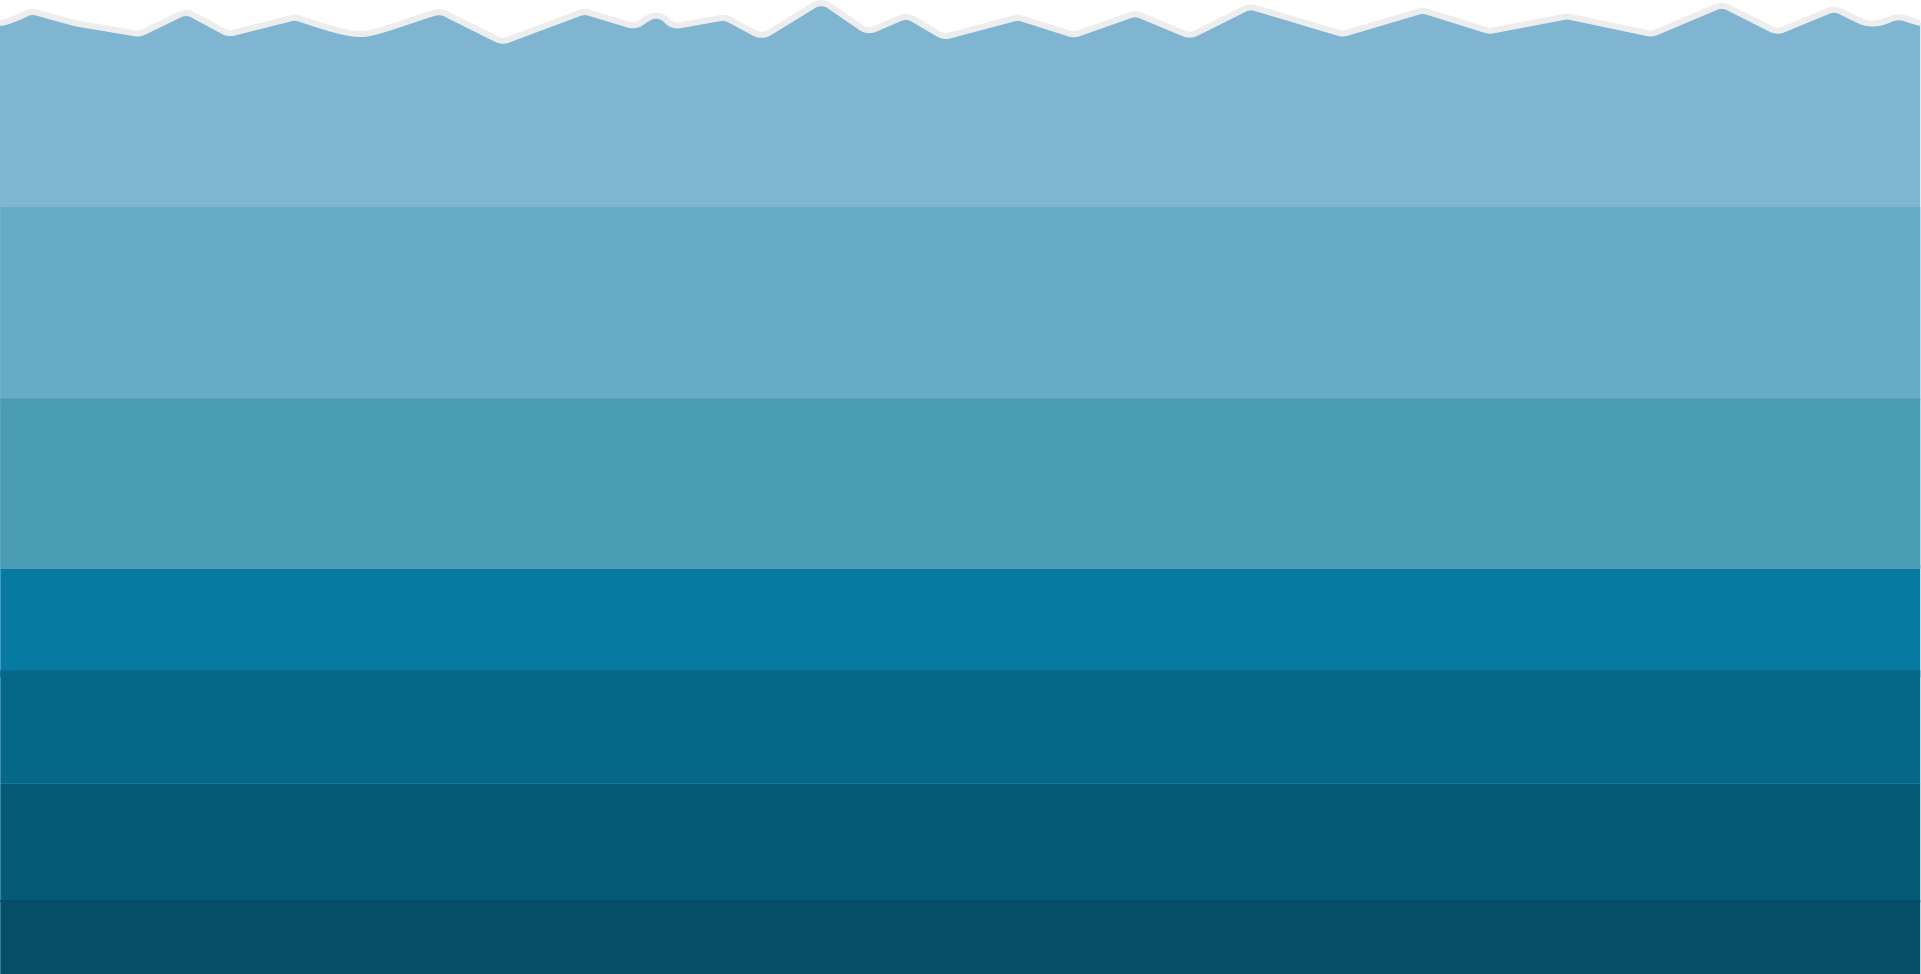
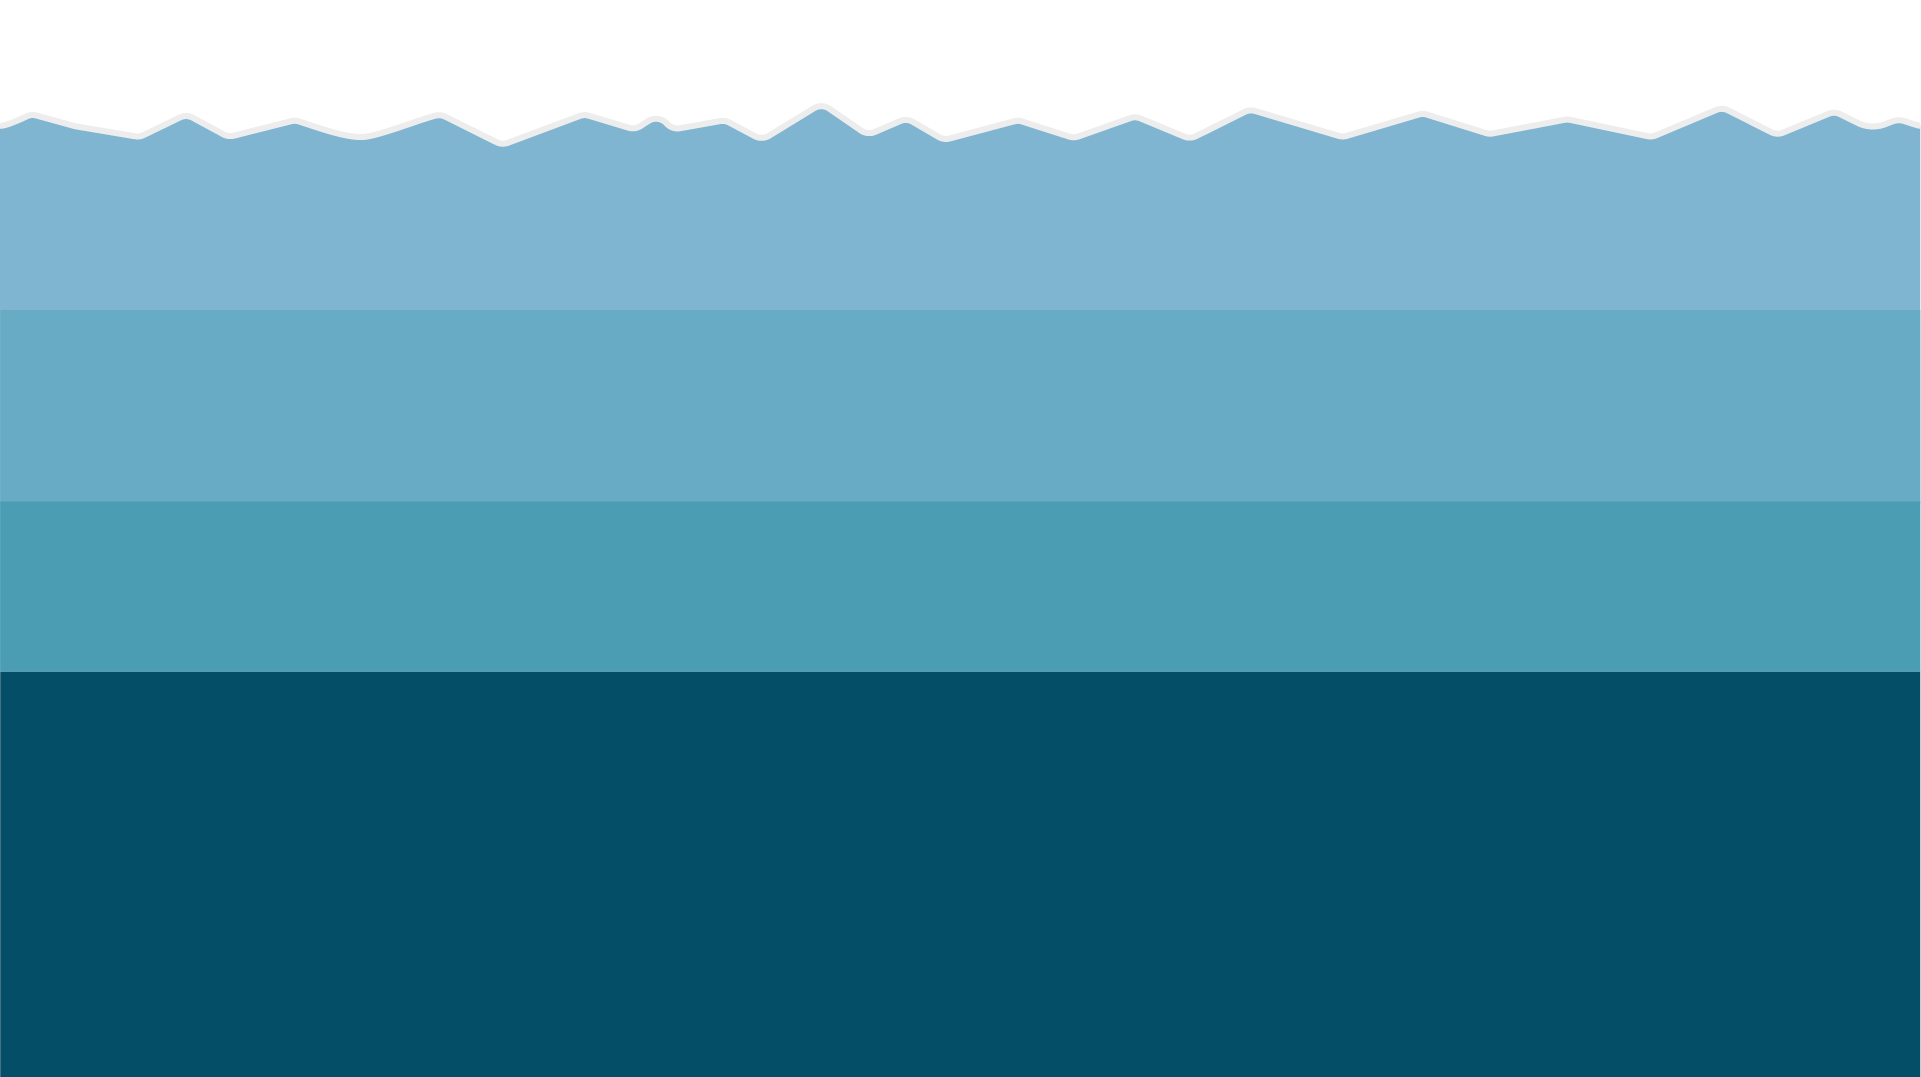
Iron diver Game: fire attackOne done

diff --git a/js/index-game.js b/js/index-game.js
@@ -9,16 +9,17 @@ const gameIronHackDiver = {
     framesCounter: 0,
     backGround: undefined,
     player: undefined,
-    enemyLevel1:[],
-    enemyLevel2:[],
+    enemyLevel1: [],
+    enemyLevel2: [],
     canvasSize: {
         w: undefined,
         h: undefined
     },
-   // keys: {
-     // SPACE: 'enter'
-    //},
-  
+    keys: {
+        SPACE: ` `,
+        TOP: 'ArrowUp'
+    },
+
 
     //INICIALIZACION
     init() {
@@ -31,31 +32,27 @@ const gameIronHackDiver = {
 
     },
     setDimensions() {
-        this.canvasSize.w = window.innerWidth
-        this.canvasSize.h = window.innerHeight
+        this.canvasSize.w = 1921            //window.innerWidth
+        this.canvasSize.h = 974             //window.innerHeight
         this.canvasDom.setAttribute('width', this.canvasSize.w)
         this.canvasDom.setAttribute('height', this.canvasSize.h)
     },
-    // setEventListeners() {
-    //   document.onkeydown = e => e.code === this.keys.SPACE ? this.createBall() : null
-    // },
-
-
-
 
     //START////
 
     start() {
 
         this.reset()
+        this.setEventHandlers()
         this.interval = setInterval(() => {
             this.framesCounter > 5000 ? this.framesCounter = 0 : this.framesCounter++
-            
+
             this.clearAll()
             this.drawAll()
-
             this.createEnemy()
             this.clearEnemy()
+            this.player.clearAttackOne()
+            //this.setEventListeners()
             // this.clearBackGround()
             this.isCollision() ? this.gameOver() : null
 
@@ -65,7 +62,6 @@ const gameIronHackDiver = {
     reset() {
         this.backGround = new Background(this.ctx, 0, 20, this.canvasSize.w, this.canvasSize.h, this.canvasSize)
         this.createPlayer()
-        //console.log(this.backGround)
     },//
 
     //CREAR//
@@ -78,92 +74,85 @@ const gameIronHackDiver = {
         this.player.draw()
         this.enemyLevel1.forEach(elm => elm.draw())
         this.enemyLevel2.forEach(elm => elm.draw())
-        console.log(`drawaallllalalalalalalala`)
-        //   this.balls.forEach(elm => elm.draw())
+        this.player.attackOne.forEach((elm) => {
+            elm.draw()
+        })
+
     },
 
     createBackGround() {
         this.backGround = new Background(this.ctx, 0, 20, this.canvasSize, this.canvasSize, this.canvasSize)
-        console.log(this.backGround)
     },
     createPlayer() {
-        this.player = new Player(this.ctx, 20, 600, 100, 150, this.canvasSize)
-        console.log(`buzo`)
+        this.player = new Player(this.ctx, 20, 520, 260, 420, this.canvasSize)
     },
 
-    createEnemy(){
-        
+    createEnemy() {
+
         const imgUrlA = `../img/enemy_level_1_A.png`
-        const imgUrlB = `../img/bg.png`
+        const imgUrlB = `../img/enemy_level_2_A.png`
 
         const x = this.canvasSize.w - 130;
-        const framesLimitLevel1 = (Math.floor(Math.random() * 10))*25;  
-        const framesLimitLevel2 = (Math.floor(Math.random() * 10))*30;  
-        
-        if (this.framesCounter % framesLimitLevel1 === 0) {
-            this.enemyLevel1.push(new Enemy(this.ctx, x, 600, 80, 130, imgUrlA, this.canvasSize,null,10))
+        const framesLimitLevel1A = (Math.floor(Math.random() * 10)) * 50;
+        const framesLimitLevel2 = (Math.floor(Math.random() * 10)) * 50;
+
+        if (this.framesCounter % framesLimitLevel1A === 0) {
+            this.enemyLevel1.push(new Enemy(this.ctx, x, 600, 260 * .80, 420 * .8, imgUrlA, this.canvasSize, null, 5))
         }
 
         if (this.framesCounter % framesLimitLevel2 === 0) {
-            this.enemyLevel2.push(new Enemy(this.ctx, x, 300, 80, 130, imgUrlB, this.canvasSize,null,60))
+            this.enemyLevel2.push(new Enemy(this.ctx, x, 200, 284, 189, imgUrlB, this.canvasSize, null, 7))
         }
 
-        // const level1y = 600;
-        // const level2y = 300;
-        // const imgUrlA = `../img/enemy_level_1_A.png`
-        // const imgUrlB= `../img/enemy_level_1_A.png`
-        // this.enemyLevel1.push(new Enemy(this.ctx, x, level1y, 80, 130, imgUrlA, this.canvasSize))
-        // this.enemyLevel2.push(new Enemy(this.ctx, x, level2y, 80, 130, imgUrlB, this.canvasSize))
     },
 
     clearEnemy() {
-        this.enemyLevel1 = this.enemyLevel1.filter(elm => elm.enemyPos.x >= 0)                // ?? no entiendo el posX
+        this.enemyLevel1 = this.enemyLevel1.filter(elm => elm.enemyPos.x >= 0)
         this.enemyLevel2 = this.enemyLevel2.filter(elm => elm.enemyPos.x >= 0)
     },
 
     ////LIMPIAR//
     clearAll() {
         this.ctx.clearRect(0, 0, this.canvasSize.w, this.canvasSize.h)
-        console.log(`clear`)
     },
     clearBackGround() {
         this.ctx.clearRect(0, 0, this.canvasSize.w, this.canvasSize.h)
-        console.log(`clear2`)
     },
 
-    isCollision() {
-  
-        const allEnemies = [...this.enemyLevel1, ...this.enemyLevel2];
-        return allEnemies.some(elm => {
-            return (
-                this.player.playerPos.x + this.player.playerSize.w >= elm.enemyPos.x &&
-                this.player.playerPos.y + this.player.playerSize.h >= elm.enemyPos.y &&
-                this.player.playerPos.x <= elm.enemyPos.x + elm.enemySize.w &&
-                this.player.playerPos.y <= elm.enemyPos.y + elm.enemySize.h
-            )
-        })
+    isCollision(elem1, elem2) {
+
+        
+
+        // const allEnemies = [...this.enemyLevel1, ...this.enemyLevel2];
+        // return allEnemies.some(elm => {
+        //     return (
+        //         this.player.playerPos.x + this.player.playerSize.w >= elm.enemyPos.x &&
+        //         this.player.playerPos.y + this.player.playerSize.h >= elm.enemyPos.y &&
+        //         this.player.playerPos.x <= elm.enemyPos.x + elm.enemySize.w &&
+        //         this.player.playerPos.y <= elm.enemyPos.y + elm.enemySize.h
+        //     )
+        // })
     },
 
-    gameOver(){
+    gameOver() {
         clearInterval(this.interval)
     },
 
-
-
     //EVENT
-  //  setEventListeners() {
-    //    document.onkeydown = e => e.code === this.keys.SPACE ? this.createEnemy() : null
-//console.log(`BOTON`)
-   // },
+    // setEventListeners() {
+    //     document.onkeydown = e => e.code === this.keys.SPACE ? this.createEnemy() : null
+    // },
+
+
     ////MOVER
     setEventHandlers() {
         document.addEventListener(`keydown`, event => {
             const { key } = event
-            console.log(key)
             key === `ArrowRight` ? this.player.moveRight() : null
             key === `ArrowLeft` ? this.player.moveLeft() : null
-            key === `ArrowUp` ? this.player.moveUp() : null
-            key === `ArrowDown` ? this.player.moveDown() : null
+            key === `ArrowUp` && (this.player.playerPos.y + this.player.playerSize.h === this.player.playerInitialPos.y + this.player.playerSize.h) ? this.player.jump() : null
+            key === ` ` ? this.player.shoot() : null
         })
+
     },
 }

diff --git a/js/player.js b/js/player.js
@@ -1,29 +1,27 @@
 class Player {
-    constructor(ctx, playerPosX, playerPosY, playerWidth, playerHeight, gameSize, keys) {
+    constructor(ctx, playerPosX, playerPosY, playerWidth, playerHeight, gameSize) {
         this.ctx = ctx
         this.playerPos = { x: playerPosX, y: playerPosY }
+        this.playerInitialPos = { x: playerPosX, y: playerPosY }
         this.playerSize = { w: playerWidth, h: playerHeight }
         this.playerVel = undefined
         this.playerPhysics = { gravity: .4 }
         this.gameSize = gameSize
         this.imageInstance = undefined
-        this.keys = keys
-        this.attackOne = 0
+        this.attackOne = []   // ataque larga distancia
         this.attackTwo = []
-        
+        this.playerVelY = 10
+        this.gravity = 0.4
+
         //  this.imageInstance.frames=3
         //this.Image.frameIndex = 0
-        // this.playerPos.x = 0// Por comentar, se puede colocar el dato en la instancia de game
-        // this.playerSize.w = 80*2
-        // this.playerSize.h = 130*2
-        // this.playerPos.y = 0
+
         this.init()
     }
     /////INICIOALIZAR//
     init() {
         this.imageInstance = new Image()
         this.imageInstance.src = `../img/player1.png`
-
     }
 
     ///CREAR///
@@ -33,16 +31,30 @@ class Player {
 
     }
     moveRight() {
-        this.playerPos.x += 4
+        this.playerPos.x += 50
     }
     moveLeft() {
-        this.playerPos.x -= 4
+        this.playerPos.x -= 50
     }
     moveUp() {
-        this.playerPos.y -= 4
+        this.playerPos.y -= 50
     }
     moveDown() {
-        this.playerPos.y += 4
+        this.playerPos.y += 50
     }
-    checkCollision() { }
+
+    jump() {
+        this.playerPos.y -= 380
+        this.playerVelY -= 30
+    }
+
+    shoot() {
+        this.attackOne.push(new AttackOne(this.ctx, (this.playerPos.x + this.playerSize.w) / 2 + 150, this.playerPos.y + this.playerSize.h / 2, this.playerSize.w, this.playerSize.h, this.gameSize))
+    }
+
+    clearAttackOne() {
+        console.log(this.attackOne)
+        this.attackOne = this.attackOne.filter(elm => elm.attackOnePos.x <= this.gameSize.w)
+    }
 }
+

diff --git a/js/attacks/attackOne.js b/js/attacks/attackOne.js
@@ -1,22 +1,37 @@
-class AttacOne {
-    constructor(ctx, attackOnePosX, attackOnePosY, attackOneWidth, attackOneHeight, gameSize) {
+class AttackOne {   // larga distancia
+    constructor(ctx, playerPosX, playerPosY, playerWidth, playerHeight, gameSize) {
         this.ctx = ctx
-        this.attackOnePos = { x: attackOnePosX, y: attackOnePosY }
-        this.attackOneSize = { w: attackOneWidth, h: attackOneHeight }
-        this.attackOneVel = undefined
-        this.attackOnePhysics = { gravity: .4 }
+        this.attackOnePos = { x: playerPosX, y: playerPosY }
+        this.attackOneSize = { w: playerWidth, h: playerHeight }
+       
+        //this.attackOnePhysics = { gravity: .4 }
         this.gameSize = gameSize
         this.imageInstance = undefined
+        this.radius = 10
+        this.attackOneVelX = 10
+
         this.init()
     }
     init() {
-        this.imageInstance = new Image()
-        //cambiar a la imagen   this.imageInstance.src = `img/principal1.png`
+        this.draw()
+        //this.imageInstance = new Image()
+        //this.imageInstance.src = `img/fondo.png`
     }
-    draw() {
+    draw() { 
+        //this.ctx.drawImage(this.imageInstance, this.attackOnePos.x, this.attackOnePos.y, this.attackOneSize.w, this.attackOneSize.h)
+        
+        this.ctx.beginPath();
+        this.ctx.fillStyle = "yellow";
+        this.ctx.arc(this.attackOnePos.x,this.attackOnePos.y, this.radius,0, Math.PI*2)
+        this.ctx.fill();
+        this.ctx.closePath();
+        
         this.move()
-        this.ctx.drawImage(this.imageInstance, this.attackOnePos.x, this.attackOnePos.y, this.attackOneSize.w, this.attackOneSize.h)
     }
-    move() { }
+
+    move() { 
+        this.attackOnePos.x += this.attackOneVelX
+        
+    }
     checkCollision() { }
 }

diff --git a/js/backGround.js b/js/backGround.js
@@ -9,19 +9,18 @@ class Background {
         this.backGroundVelX = 5;
         this.backGroundSize = { w: backGroundWidth, h: backGroundHeight }
         this.imageInstance = undefined,
-        
-        this.init()
+
+            this.init()
     }
     init() {
         this.imageInstance = new Image();
-        this.imageInstance.src = `../img/fondov1.png`;
-    
+        this.imageInstance.src = `../img/fondov2.png`;
+
     }
     draw() {
         this.ctx.drawImage(this.imageInstance, this.backGroundPos.x, this.backGroundPos.y, this.backGroundSize.w, this.backGroundSize.h);
         this.ctx.drawImage(this.imageInstance, this.backGroundPos.x + this.backGroundSize.w, this.backGroundPos.y, this.backGroundSize.w, this.backGroundSize.h);
         this.move()
-        console.log(`funciono`)
     }
 
     move() {
